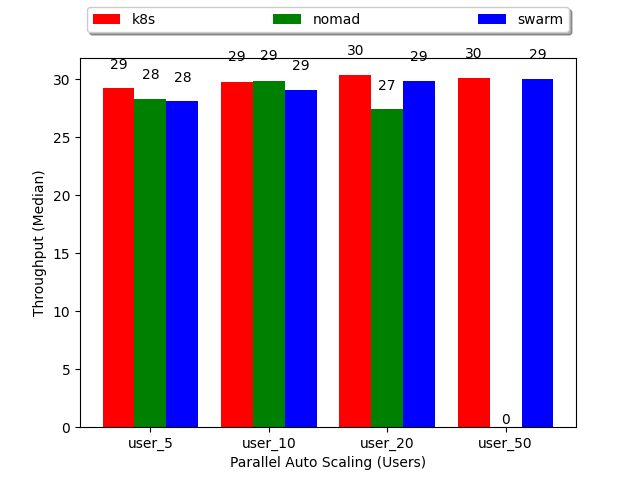
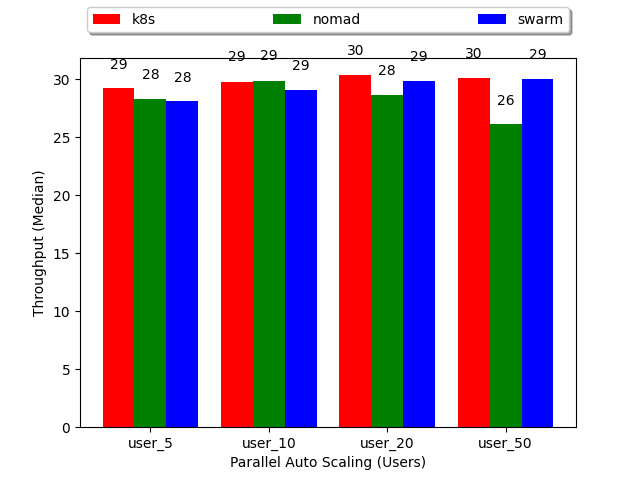
Update results of data

Changed region(s): [[0.75, 0.25, 0.8125, 0.9062], [0.5625, 0.125, 0.625, 0.25], [0.7812, 0.1875, 0.8125, 0.2188]]

diff --git a/faas_exp.py b/faas_exp.py
@@ -683,6 +683,9 @@ def _aggregate_summaries_and_statistic(
 
             num = int(entry['elapsed'])
             response_code = entry['responseCode']
+            if not isinstance(response_code, int):
+                if response_code.isnumeric():
+                    response_code = int(response_code)
             if response_code == 200:
                 status_code_200 += 1
 
@@ -691,6 +694,9 @@ def _aggregate_summaries_and_statistic(
             metrics['resTime'].append(num)
 
     throughput = _calculate_throughput(start_date, end_date, status_code_200)
+    print('Number Of Response Code 200 is {}'.format(status_code_200))
+    print('throughput is {}'.format(throughput))
+    print('Test Case path file {}'.format(target_summary_path))
     metrics['throughput'].append(throughput)
 
 
@@ -742,6 +748,7 @@ def _parse_test_cases_results(
                 run_num,
             )
         else:
+            logger.info('This is the run # {}'.format(run_num))
             # Aggregate summaries and statistic
             _aggregate_summaries_and_statistic(
                 path,
@@ -756,7 +763,7 @@ def _parse_test_cases_results(
             # Get the median result for response time
             median_result = median(warm_metrics['resTime'])
             # Get the median result for throughput
-            print(warm_case, warm_metrics['throughput'])
+            logger.info(warm_case, warm_metrics['throughput'])
             throughput_result = median(warm_metrics['throughput'])
             error_pct_result = median(warm_metrics['errorPct'])
             headers.append([
@@ -766,6 +773,9 @@ def _parse_test_cases_results(
                 error_pct_result
             ])
     else:
+        logger.info(
+            'The values of throughput are {}'.format(metrics['throughput'])
+        )
         # Get the median result for response time
         median_result = median(metrics['resTime'])
         # Get the median result for throughput
